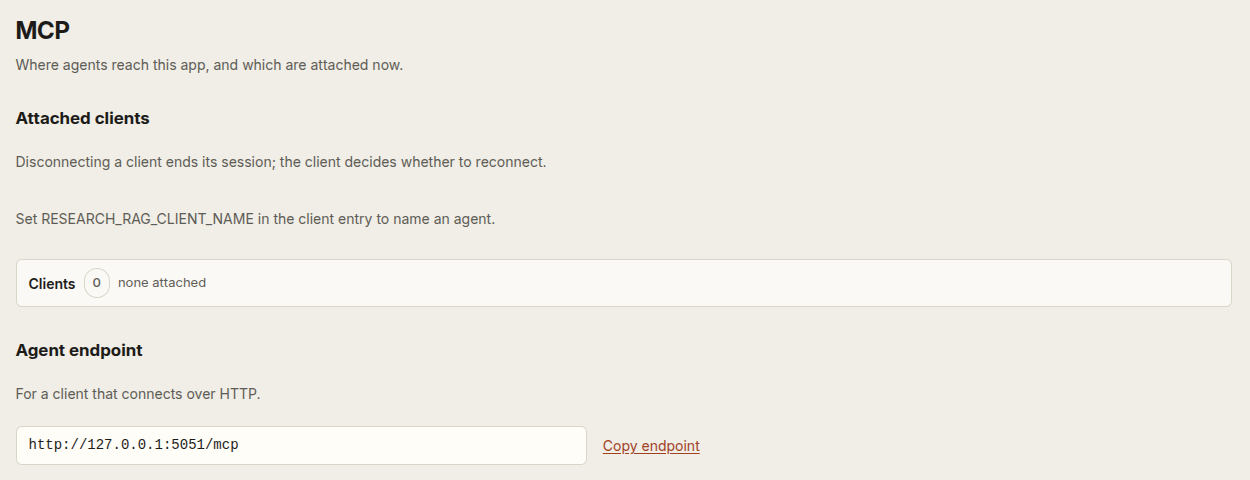
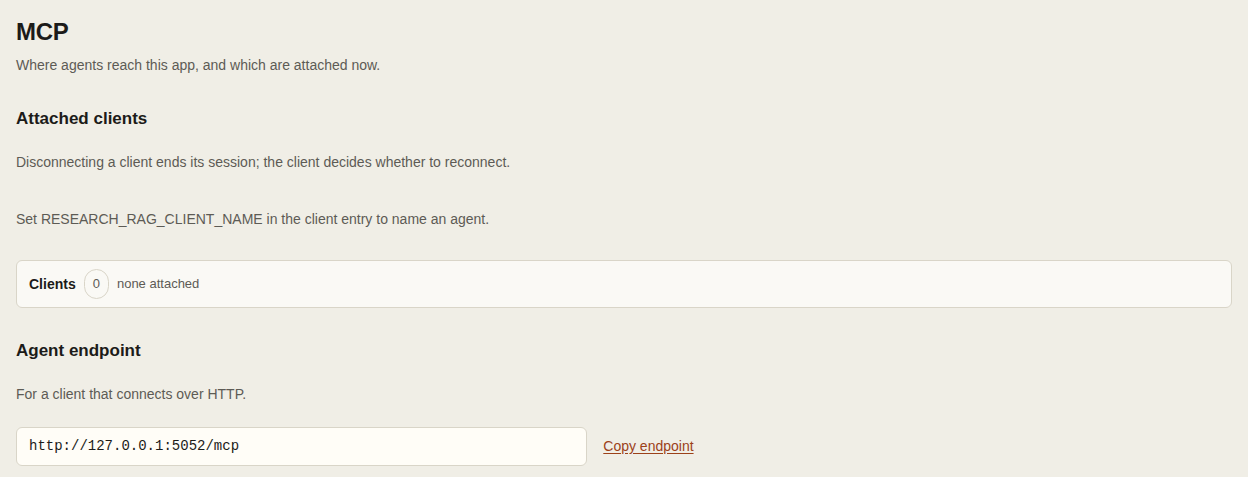
docs(readme): showcase synthesis and evidence review workflows
Reframe the introduction around finding evidence and building answers
with white-box synthesis. Expand workspace guidance for reviewing
sources and checking sentence-level provenance and reasoning.

Clarify DeepSeek data sharing and API credit usage, and show verbose
synthesis output in the CLI example.

Refresh workspace screenshots and add synthesis, provenance, reasoning,
and source library views from a nine-book public-domain demo project.

diff --git a/README.md b/README.md
@@ -1,17 +1,18 @@
 # research-rag
 
-research-rag is a research aid for students and researchers working with document corpora. It indexes and searches your documents locally on CPU.
+research-rag helps you find evidence in your documents and build answers from their passages. Indexing and search run locally on CPU.
 
 - Build a searchable corpus from a project's PDFs, EPUBs, and MOBIs.
 - Find passages through combined lexical and semantic search.
+- Build an answer with [white-box synthesis](https://github.com/AhmedKishki/agent-skills/tree/main/skills/white-box-synthesis). Check each sentence's source and the model's reasons for including it.
 - Read passages with source locators, review bibliography, and exclude unwanted evidence in the browser.
 - Work with the same corpus through the browser workspace, command line, or MCP-connected agents.
-- Search results are evidence, not verified quotations.
-- Synthesise an answer by [white-box synthesis](https://github.com/AhmedKishki/agent-skills/tree/main/skills/white-box-synthesis), with sentence-level provenance and an explicit reasoning record.
 
-[Install](#install) · [Build a project](#build-a-project) · [Synthesise an answer](#synthesise-an-answer) · [Open the workspace](#open-the-workspace) · [Search statistics](#search-statistics) · [Connect an agent](#connect-an-agent) · [Features and limits](FEATURES.md)
+[Install](#install) · [Build a project](#build-a-project) · [Synthesise an answer](#synthesise-an-answer) · [Check the answer](#check-the-answer) · [Open the workspace](#open-the-workspace) · [Search statistics](#search-statistics) · [Connect an agent](#connect-an-agent) · [Features and limits](FEATURES.md)
 
-![Hybrid search over public-domain books, showing a query and a retrieved passage with its title, author, year, section locator, and reviewed tags](docs/screenshots/search.png)
+![A live demo synthesis answering whether machinery puts people out of work, with passage citations, references, and expandable provenance and reasoning](docs/screenshots/synthesis.png)
+
+Screenshots show a demo project of nine public-domain books.
 
 ## Requirements
 
@@ -65,19 +66,39 @@ research-rag --project-root "/path/to/project" search "How is evidence interpret
 - Search combines lexical and semantic retrieval with reranking.
 - Passages contain cleaned source text. Check the original at the locator before quoting.
 
+![Hybrid search over public-domain books, showing a query and a retrieved passage with its title, author, year, section locator, and reviewed tags](docs/screenshots/search.png)
+
+In the [workspace](#open-the-workspace), open **Sources** to review titles, authors, years, and tags. Each source's menu lets you edit its metadata or exclude it from search without changing the original.
+
+![Source library showing public-domain books with reviewed titles, authors, publication years, categories, and keywords](docs/screenshots/sources.png)
+
 ## Synthesise an answer
+
+Synthesis sends your question, the system prompt, and every passage retrieved during the run to DeepSeek. It uses your API credit.
 
 ```bash
 research-rag api-key set
-research-rag --project-root "/path/to/project" synthesise "How is evidence interpreted?"
+research-rag --project-root "/path/to/project" synthesise "How is evidence interpreted?" --verbose
 ```
 
-- `api-key set` asks for a DeepSeek API key without echoing it, and keeps it for this account.
-- DeepSeek searches the project and assembles the synthesis. Every sentence is the wording of a retrieved passage, cited by label, and a link no passage states shows as a gap.
-- The question and every passage retrieved are sent to DeepSeek. The synthesis says how many.
-- `--reasoning low|high|max` sets how hard DeepSeek thinks, `high` unless the `synthesis.reasoning` setting says otherwise. `low` is fastest and cheapest.
-- `--verbose` adds each sentence's provenance and the reasoning.
-- In the workspace, switch the search box from **Search** to **Synthesise** and pick a reasoning level. Provenance and reasoning start folded.
+- `api-key set` asks for a DeepSeek API key without displaying it, and keeps it for this account.
+- DeepSeek finds passages and submits a plan for assembling the answer. The app builds each sentence from their wording.
+- Each sentence cites its passage, such as `[S1]`. When no retrieved passage supplies a needed connection, the answer marks it as `⟦GAP⟧`.
+- `--reasoning low|high|max` selects DeepSeek's reasoning level. The default is `high` unless the `synthesis.reasoning` setting overrides it.
+- In the [workspace](#open-the-workspace), switch the search box from **Search** to **Synthesise** and choose a reasoning level.
+- The result names the endpoint and reports how many passages were sent.
+
+### Check the answer
+
+Open **Provenance** below the answer to see which passage each sentence uses and what edits were made. Here the record shows punctuation changes and one deleted phrase.
+
+![Expanded provenance listing the source passage for each of three sentences, two punctuation changes, and the phrase deleted from the second sentence](docs/screenshots/provenance.png)
+
+Open **Reasoning** to read why those passages were chosen, what was left out, and where the sources disagree. The source checks are the model's own; you judge whether the passages support the answer.
+
+![Expanded reasoning showing the argument, omitted passages, a disagreement between Babbage and Engels, source checks, and the renderer's wording check](docs/screenshots/reasoning.png)
+
+Use `--verbose` in the CLI, or `verbose: true` through MCP, to read both records.
 
 ## Open the workspace
 
@@ -106,7 +127,7 @@ research-rag --start-ui start --lan
 
 ### Search statistics
 
-The **Stats** view shows search totals, response times, and how often each source and passage appeared in the top five or ranked first. Filter by time range and choose how many entries to show. The figures below come from a demo project of public-domain books, not from a performance benchmark.
+The **Stats** view shows search totals, response times, and how often each source and passage appeared in the top five or ranked first. Filter by time range and choose how many entries to show. The figures below describe demo activity, not a performance benchmark.
 
 ![Search statistics with source titles, passage locators, top-five and rank-one counts, and frequency bars](docs/screenshots/statistics.png)
 
@@ -127,7 +148,7 @@ research-rag --project-root "/path/to/project" doctor --mcp-entry
 - HTTP clients use the app's `/mcp` endpoint. stdio clients use `research-rag mcp --project-name "My project"`.
   - The stdio bridge connects to the running app by its registered project name.
 
-![MCP panel showing attached clients and a copyable local agent endpoint](docs/screenshots/agent-connection.png)
+![MCP panel showing no attached clients and a copyable local agent endpoint](docs/screenshots/agent-connection.png)
 
 ## Updates
 
